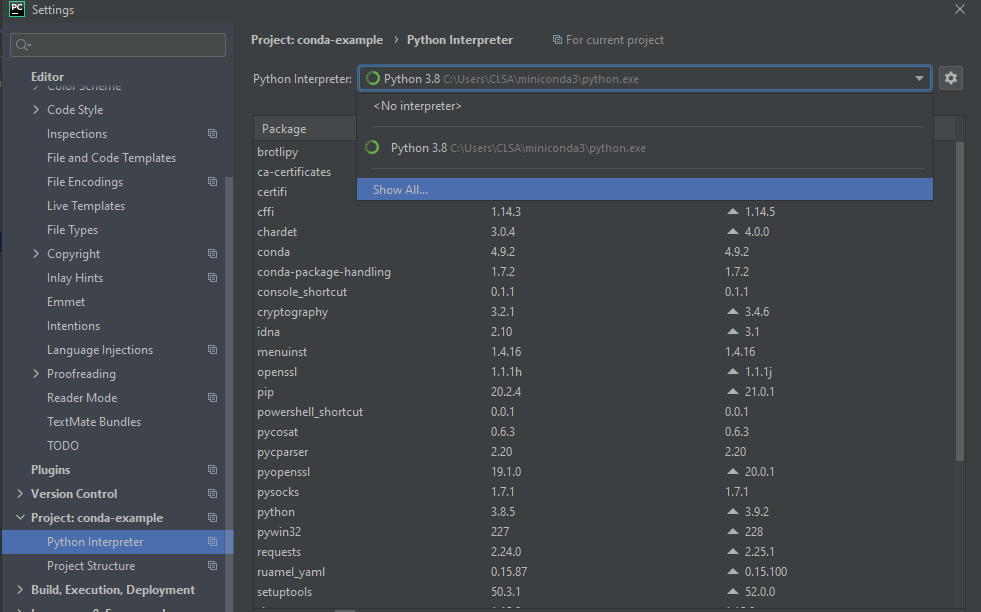
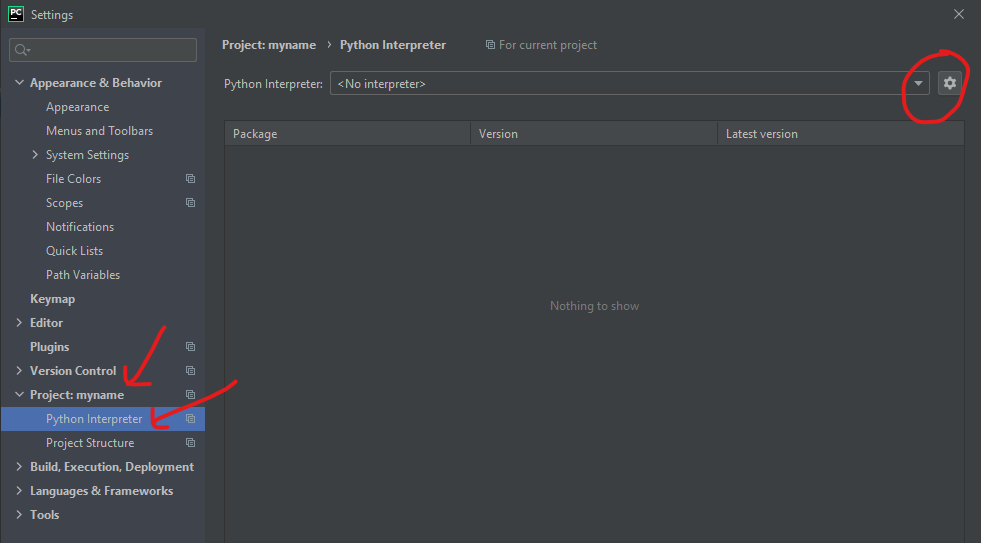
More updates

diff --git a/README.md b/README.md
@@ -1,54 +1,74 @@
 # Interview task
 
 ## Overview
-In this task, I would like you to conduct a small research project entirely from scratch. It will be representative of the work we will do. To mimic reality, it is both *open-ended* and *idealized* - you may well find unexpected difficulties along the way.
+In this task, I would like you to conduct a small research project entirely from scratch. The task is representative of the work we do, and therefore:
+
+- you will have a chance to demonstrate some of your relevant coding/mathematical skills.
+- it is largely open-ended; you will have the freedom to structure the project as you see fit. Much like on-the-job.
+- it is idealized; you may well find unexpected difficulties along the way, and your resourcefulness/outside-the-box-thinking will be needed. Again, much like on-the-job.
+- Lastly, you will have a chance to see if this role truly interests you! (Yes, it matters!)
+
+This is not a test of memorization. You are welcome to use Google, StackOverflow, whatever resources you may need. We do this on-the-job too.
 
 ## Task
-Please construct a simple
-[momentum](https://en.wikipedia.org/wiki/Momentum_(technical_analysis))
-signal on the
-[S&P100](https://en.wikipedia.org/wiki/S%26P_100).
-You may use any value of `N`.
-We will use:
+Construct a simple trading signal on the [S&P100](https://en.wikipedia.org/wiki/S%26P_100), and then run it through a backtest. Present its PnL and any relevant risk/reward metrics you wish.
 
-- [yfinance](https://github.com/ranaroussi/yfinance) to the fetch the data,
-- [pandas](https://github.com/pandas-dev/pandas) to organize and analyze it, and
-- [jupyter lab](https://github.com/jupyterlab/jupyterlab/) to present it.
-- any visualization library of your choice.
+*Note*: The signal does not need to carry any IP (intellectual property). You can even implement [momentum](https://en.wikipedia.org/wiki/Momentum_(technical_analysis)) as described by Wikipedia. In fact, do this, if you have no prior trading experience.
 
-Assemble the data for any 5-year period. For simplicity, you may assume that the universe over that period of time is constant with the same constituents as those in the S&P today.
+You will need to fetch the data to support this work yourself. [yfinance](https://github.com/ranaroussi/yfinance) is the go-to package (and has already been added to the environment by default). If you know something else, feel free to use it. If not, then you will be tested on how quickly you can pick up new tools of the trade.
 
-Let `0.0 < f < 0.5` and `r >= 1` be parameters. We will hold:
+You will need to conduct your analysis with [pandas](https://github.com/pandas-dev/pandas) and to present it with [jupyter](https://github.com/jupyterlab/jupyterlab/). Be sure to include some charts, using any visualization library of your choice.
 
-- $1 in each of the top `f` fraction of names (e.g. if `f = 0.1`, then we will long each of the top 10% of names), and
-- -$1 in each of the bottom `f` fraction of names.
-  
-We will rebalance every `r` days.
+Simplifying assumptions:
 
-Please plot the cumulative PnL according to a handful (say 2-3) combinations of `f` and `r`. Compute any additional portfolio statistics you wish to discuss.
-
-You are, of course, allowed to GitHub/StackOverflow/etc for any help you might need.
+- The period of time can be anytime to anytime.
+- The universe over the period of time can be assumed to be constant, with the same constituents as those in the S&P today.
 
 ## Setup
-You must use:
+
+Very little is fixed. You must use:
 
 - this current Windows machine.
 - [GitHub](https://github.com/) to host the code.
-  
-To set GitHub up:
 
-- Log into [GitHub](https://github.com/) as `derekwanclsa`.
-- Create a new private repo with your name:
-- Use `git bash` to clone the repo:
-  
-  ![...](doc/git-bash.png)
-
-Everyone as their own development environment. You are welcome to go and configure your own, but only the end result will be considered. As time is limited, this may well be infeasible. Hence, the following are also provided:
+Other than these, everything else is welcome; we each have our own development environment after all. Given time is limited, this may well be infeasible. Hence, the following are also provided:
 
 - [conda](https://docs.conda.io/en/latest/), a Python environment manager.
 - [PyCharm](https://www.jetbrains.com/pycharm/), a Python IDE.
 
-You are not expected to be familiar with them, so you will be walked through their configuration. First, we set up `conda`:
+### GitHub
+
+Let us set up everything up now.
+
+- Log into [GitHub](https://github.com/) as `derekwanclsa`.
+  
+  ![...](doc/github-login.png)
+  
+- Create a new repo:
+  
+  ![...](doc/new-repository.png)
+  
+- Make sure to use the `interview-task` template, and to name it after yourself:
+  
+  ![...](doc/new-repository2.png)
+
+- Also make sure the repo is private:
+  
+  ![...](doc/new-repository3.png)
+
+- Note that repo URL is under "Code" > "HTTPS":
+  
+  ![...](doc/new-repository4.png)
+  
+- Use `git bash` to clone the repo:
+  
+  ![...](doc/git-bash.png)
+
+  Clone anywhere you want, for example, under `~/Documents/derekwan`:
+  
+  ![...](doc/clone-repository.png)
+
+### conda
 
 - Start `anaconda powershell prompt`:
   
@@ -61,35 +81,64 @@ You are not expected to be familiar with them, so you will be walked through the
   After a minute or two:
   
   ![...](doc/installing-conda2.png)
-  
-- If you wish to add packages:
-  - Add them to `environment.yml`:
-    
-    ![...](doc/adding-to-environment.png)
-    
-  - Then run `conda activate  `conda env update`:
-    
-    ![...](doc/adding-to-environment2.png)
-    
-Next, we set up PyCharm:
 
-- Go to the "Settings":
+- Activate the environment with `conda activate interview-task`:
+
+  ![...](doc/installing-conda3.png)
+
+  You should see the prompt change to the `interview-task` environment.
+  
+If you wish to add packages:
+
+- Add them to `environment.yml`:
+    
+  ![...](doc/adding-to-environment.png)
+    
+- Then run `conda env update`:
+    
+  ![...](doc/adding-to-environment2.png)
+    
+  After a minute or two:
+    
+  ![...](doc/adding-to-environment3.png)
+    
+### PyCharm
+
+- Start `PyCharm Community Edition`:
+
+  ![...](doc/start-pycharm0.png)
+
+- Go to "Open":
+
+  ![...](doc/start-pycharm1.png)
+
+- Navigate to your repo:
+  
+  ![...](doc/start-pycharm2.png)
+  
+  You should see all existing files:
+  
+  ![...](doc/start-pycharm3.png)
+
+Next, we set up the interpreter.
+
+- Go to "File" > "Settings":
   
   ![...](doc/pycharm-interpreter.png)
   
-- Go to "Project Interpreter" and show all:
+- Go to "Project: yourname" > "Project Interpreter" and hit the gears:
   
   ![...](doc/pycharm-interpreter2.png)
-
-- Go to add:
   
-  ![...](doc/pycharm-interpreter3.png)
+- Go to "Add":
+  
+  ![...](doc/pycharm-interpreter2b.png)
 
 - Go to "Conda Environment" > "Existing environment" and then expand the list of interpreters:
   
   ![...](doc/pycharm-interpreter4.png)
 
-- Select `python3.exe` under the `miniconda3` folder:
+- Select `python3.exe` under the `miniconda3\envs` folder:
   
   ![...](doc/pycharm-interpreter5.png)
 
@@ -97,11 +146,13 @@ Next, we set up PyCharm:
   
   ![...](doc/pycharm-interpreter6.png)
 
-- PyCharm should now be linked to the environment, providing auto-completions et al:
+- PyCharm should now be linked to the environment, providing auto-completions and everything else:
   
   ![...](doc/pycharm-auto-completion.png)
 
-### PyCharm
+### Jupyter
 
+This can be launched from the Anaconda prompt. Make sure you have your environment activated.
 
+![...](doc/jupyter.png)
 
